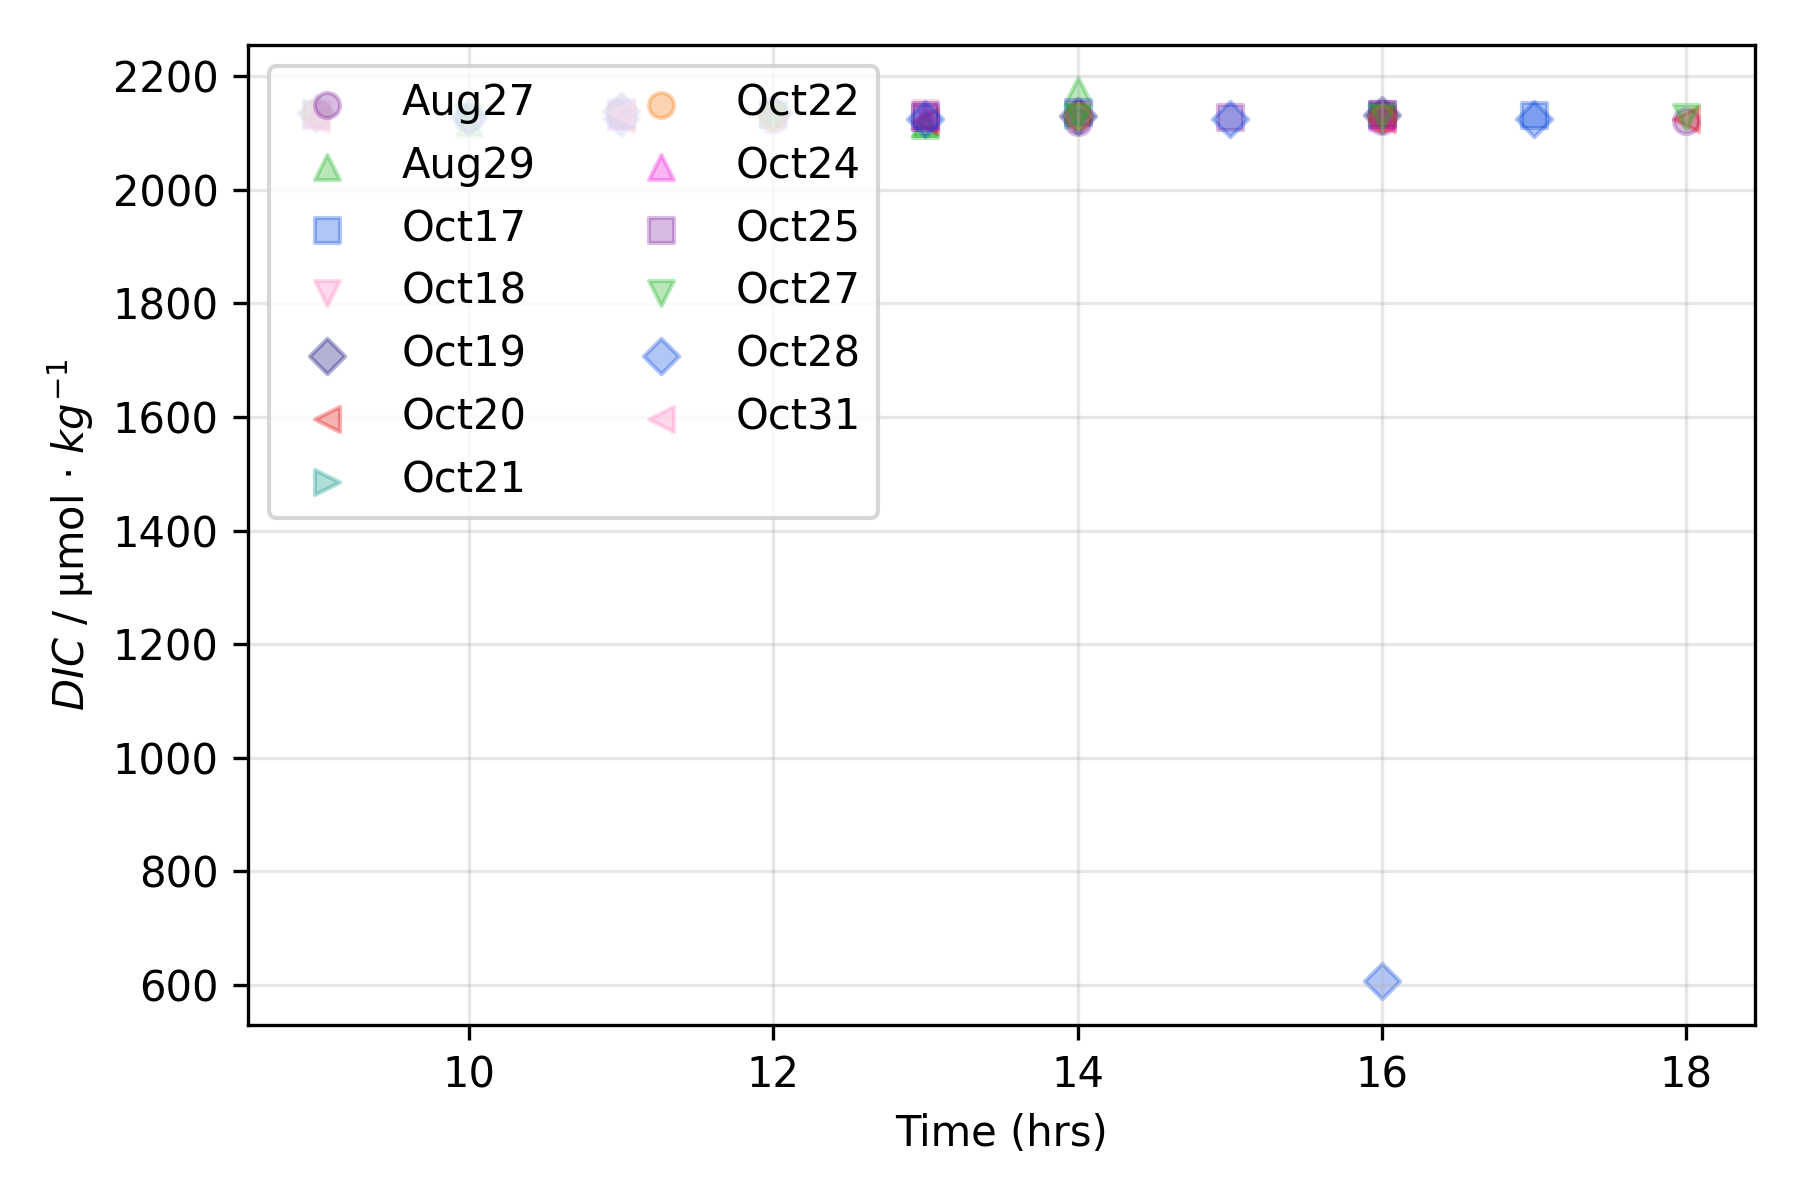
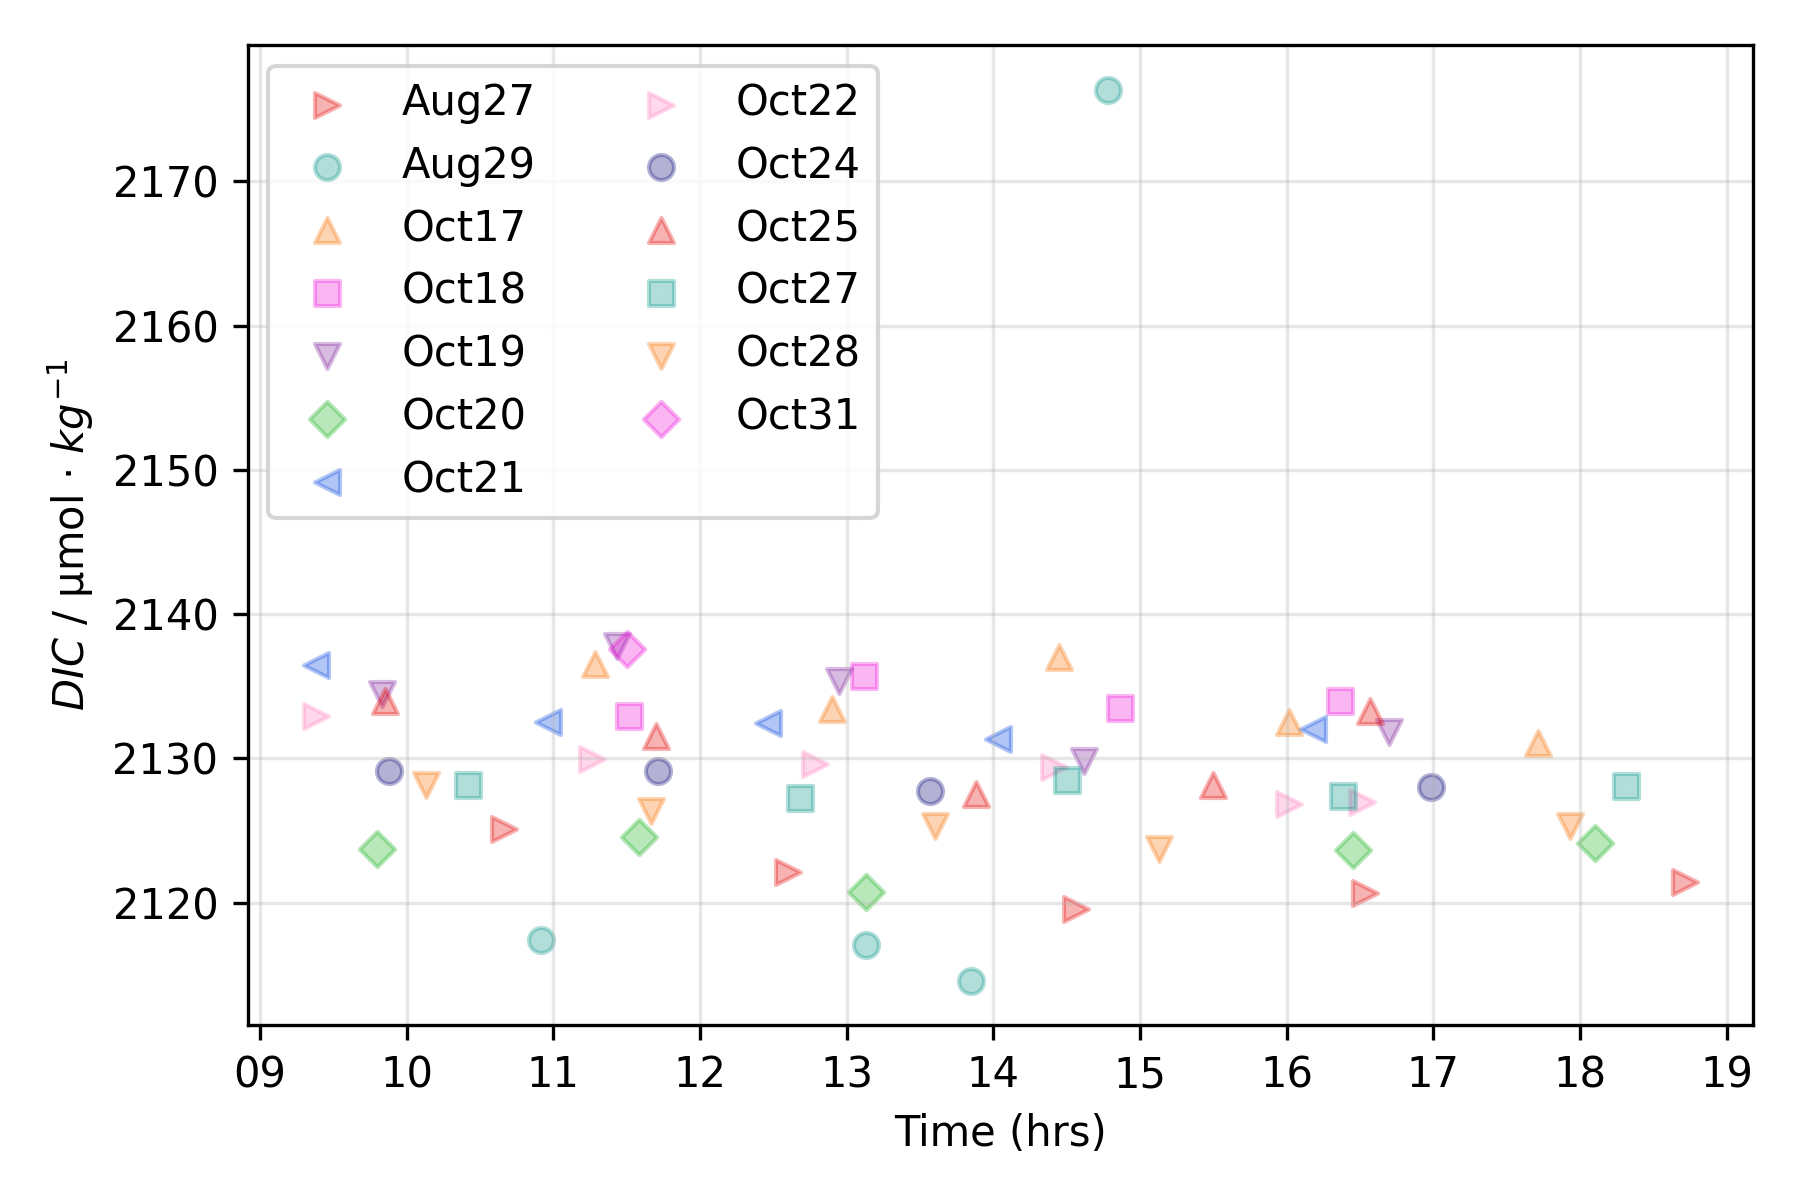
improved nuts graph

diff --git a/SO289-64PE503/process_SO289_64PE503.py b/SO289-64PE503/process_SO289_64PE503.py
@@ -2,6 +2,7 @@ import copy
 import numpy as np, pandas as pd
 import matplotlib.dates as dates
 from matplotlib import pyplot as plt
+import matplotlib.dates as mdates
 import itertools
 import koolstof as ks, calkulate as calk
 
@@ -157,6 +158,7 @@ calk.dataset.calibrate(dbs)
 calk.dataset.solve(dbs)
 calk.plot.titrant_molinity(dbs, figure_fname="figs/titrant_molinity.png", show_bad=False)
 calk.plot.alkalinity_offset(dbs, figure_fname="figs/alkalinity_offset.png", show_bad=False)
+
 # === DIC
 # Add optional column "blank_good
 dbs['blank_good'] = True
@@ -177,7 +179,7 @@ dbs.loc[dbs.crm & dbs.bottle.str.endswith("-02"), "k_dic_good"] = False # remove
 dbs.get_blank_corrections()
 dbs.plot_blanks(figure_path="figs/dic_blanks/")
 
-# Calibrate DIC and plot calibration
+# Calibrate DIC and calibration
 dbs.calibrate_dic()
 dic_sessions = copy.deepcopy(dbs.sessions)
 dbs.plot_k_dic(figure_path="figs/")
@@ -211,8 +213,8 @@ colors = itertools.cycle(
     )
 )
 
-# Only keep nuts bottles
-L = dbs["bottle"].str.startswith("NUTS")
+#%% Only keep nuts bottles that have file_good
+L = (dbs["bottle"].str.startswith("NUTS")) & (dbs["file_good"]==True)
 nuts = dbs[L]
 
 # Only keep real analysis days
@@ -222,7 +224,9 @@ nuts = nuts[L]
 real_days = list(nuts["dic_cell_id"].unique())
 
 # Create an hour column
-nuts["hour"] = nuts["analysis_datetime"].dt.hour
+# nuts["hour"] = nuts["analysis_datetime"].dt.hour
+nuts["datetime"] = nuts['analysis_datetime'].dt.strftime('%H:%M')
+nuts["datetime"] = pd.to_datetime(nuts["datetime"])
 
 # Create figure
 fig, ax = plt.subplots(dpi=300, figsize=(6, 4))
@@ -235,7 +239,7 @@ for r in real_days:
     c = next(colors)
     l = r.split("_")[1].replace("-22", "")
     ax.scatter(
-        x="hour",
+        x="datetime",
         y="dic",
         data=data,
         marker=m,
@@ -244,6 +248,9 @@ for r in real_days:
         label=l,
     )
     
+myFmt = mdates.DateFormatter('%H')
+ax.xaxis.set_major_formatter(myFmt)    
+
 ax.legend(loc="upper left", ncol=2) # bbox_to_anchor=(1, 0.5)
 # ax.set_ylim(2000, 2200)
 ax.grid(alpha=0.3)
